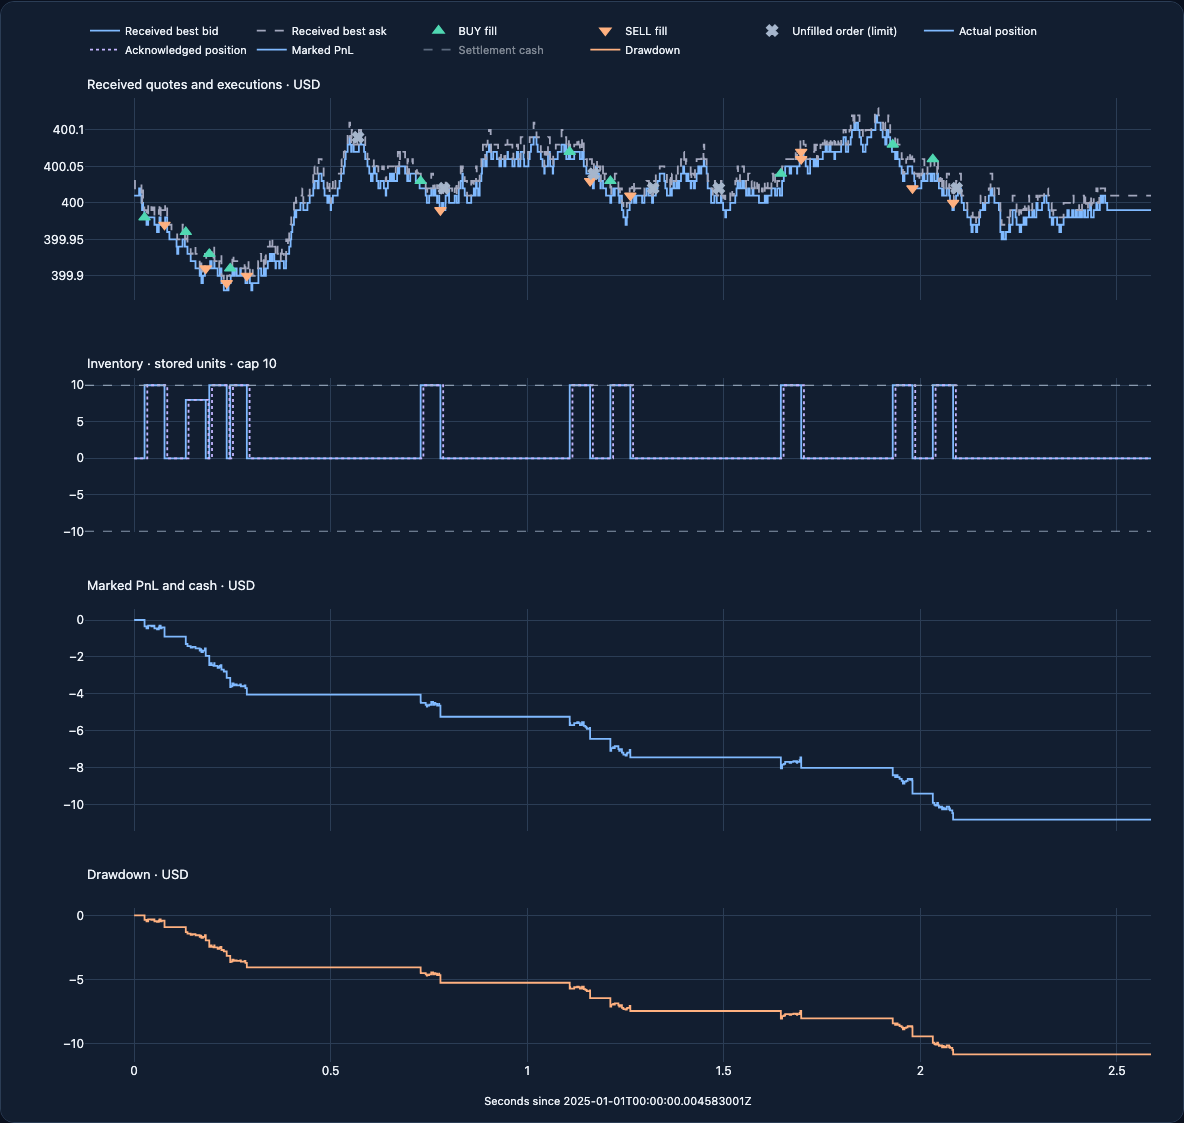
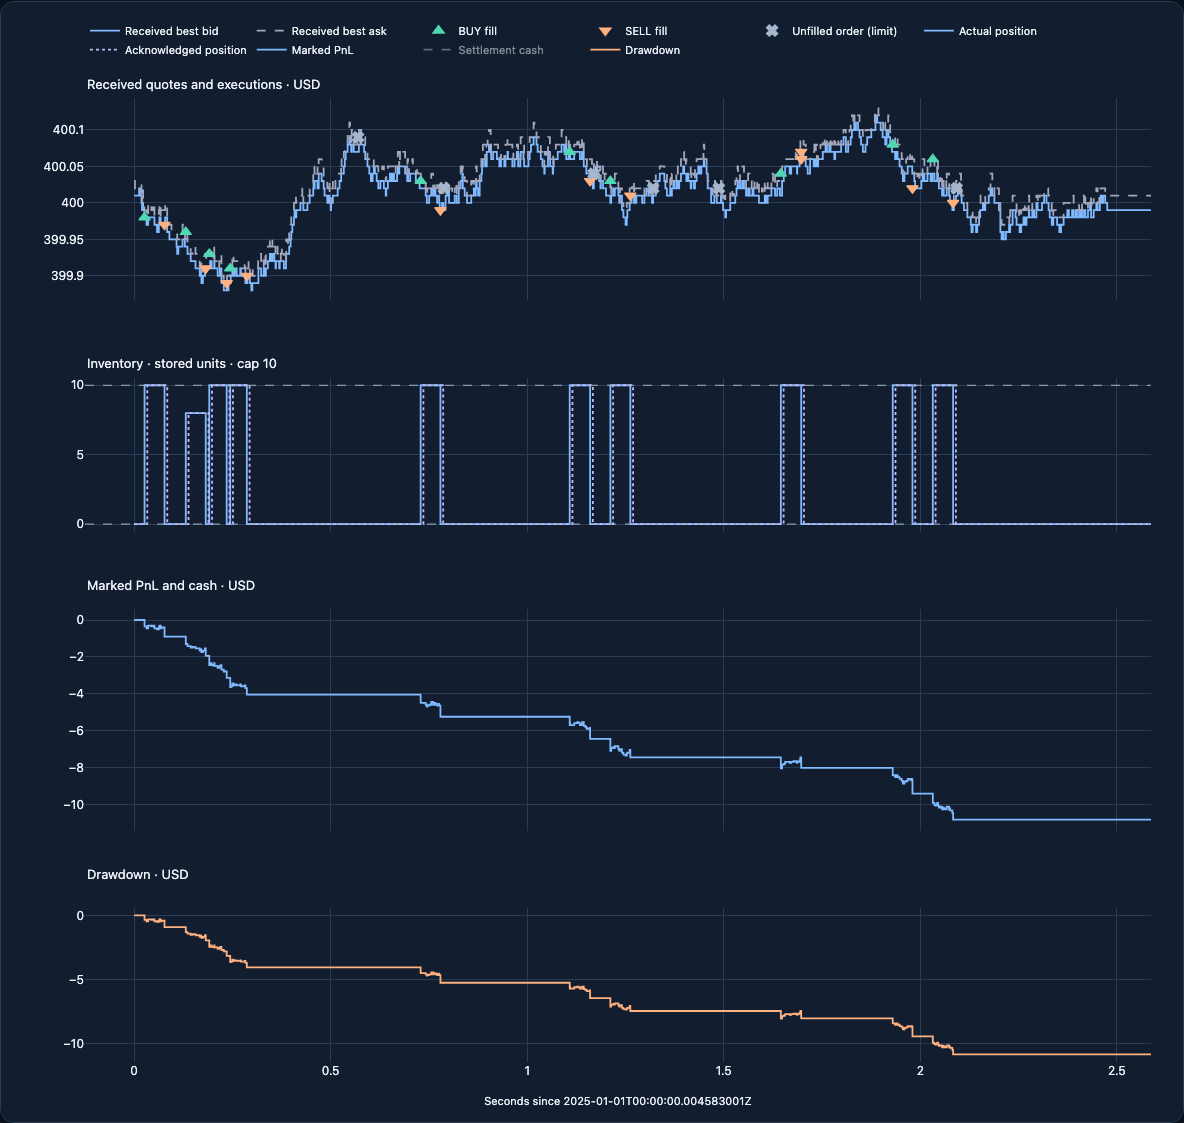
fix: show shorting constraints in replay inventory charts

diff --git a/src/financeai/reporting/_replay_template.html b/src/financeai/reporting/_replay_template.html
@@ -545,7 +545,9 @@
             " native · multiplier " +
             asset.instrument.contract_multiplier +
             " · settles in " +
-            asset.instrument.settlement_currency,
+            asset.instrument.settlement_currency +
+            " · shorting " +
+            (asset.instrument.shortable ? "allowed" : "disabled"),
         );
         const traces = [
           line(asset.series.bid, "Received best bid", p.price, 1),
@@ -634,8 +636,8 @@
               x0: 0,
               x1: 1,
               yref: "y2",
-              y0: -Number(asset.cap_units),
-              y1: -Number(asset.cap_units),
+              y0: asset.instrument.shortable ? -Number(asset.cap_units) : 0,
+              y1: asset.instrument.shortable ? -Number(asset.cap_units) : 0,
               line: { color: p.muted, dash: "dash", width: 1 },
             },
           ],

diff --git a/tests/reporting/test_replay_browser.py b/tests/reporting/test_replay_browser.py
@@ -51,12 +51,15 @@ def test_offline_controls_download_hover_and_mobile_layout(page, mixed, tmp_path
     assert not errors and not requests
     assert page.locator("#account-status").inner_text().startswith("VALID")
     assert page.locator("#currency").input_value() == "CHF"
+    assert page.locator("#replay-chart").evaluate("el=>el.layout.shapes[1].y0") == 0
+    assert "shorting disabled" in page.locator("#instrument-info").inner_text()
     assert page.locator("#replay-chart").evaluate("el=>el.data[8].visible") == "legendonly"
     page.evaluate("Plotly.restyle('replay-chart', {visible:true}, [8])")
     inverse = prep.data.instruments[2].key
     page.select_option("#instrument", inverse)
     ready(page, inverse)
     assert page.locator("#currency").input_value() == "COIN"
+    assert page.locator("#replay-chart").evaluate("el=>el.layout.shapes[1].y0") < 0
     assert page.locator("#replay-chart").evaluate("el=>el.data[8].visible") is True
     page.select_option("#theme", "light")
     page.wait_for_function("document.documentElement.dataset.theme === 'light'")

diff --git a/docs/visualizations.md b/docs/visualizations.md
@@ -69,7 +69,7 @@ audited PNG/SVG figures; the interactive explorer uses the separate `interactive
 | Panel | Meaning | Important distinction |
 | --- | --- | --- |
 | Received quotes and executions | Received best bid/ask, BUY ▲, SELL ▼, and wholly unfilled × orders | Lines show observations; fills use the book at exchange arrival. A rejected or nonmarketable order has no executed quantity. |
-| Inventory | Actual position at fill arrival and acknowledged position at report receipt, with configured caps | The controller cannot act on an acknowledgement before it arrives. Quantities are stored integer units. The instrument metadata gives their native quantity step. |
+| Inventory | Actual position at fill arrival and acknowledged position at report receipt, with configured caps | The controller cannot act on an acknowledgement before it arrives. The lower constraint is zero when shorting is disabled. Quantities are stored integer units; instrument metadata gives their native quantity step. |
 | Marked PnL and cash | Settlement cash plus inventory marked at received mid; cash can be enabled in the legend | Cash transfers that finance inventory are not profit. These are trading cash-flow values, not a funded account's equity. |
 | Drawdown | Nonpositive marked PnL minus its preceding peak (including zero), in settlement currency | The card shows the largest loss as a positive magnitude. No percentage denominator or annualization is assumed. Missing marks remain gaps. |
 
